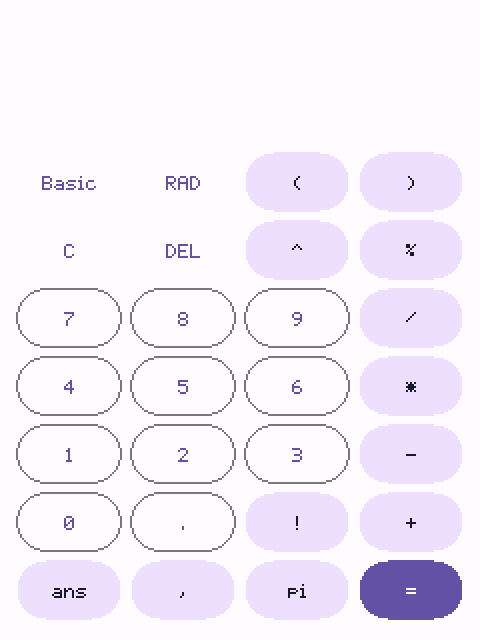
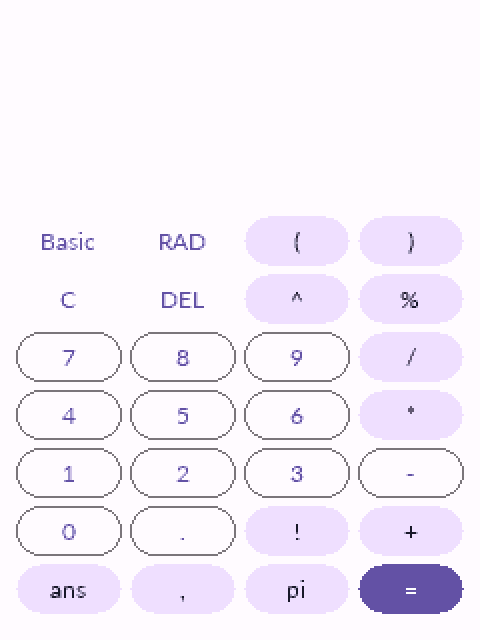
use TinyFonts

diff --git a/src/TinyCalculatorGui.h b/src/TinyCalculatorGui.h
@@ -26,6 +26,15 @@
 namespace TinyCalc {
 
 /**
+ * @brief Look of the calculator: the TinyMaterialDesign theme of all its
+ * widgets. Its typography holds the fonts (label, body, title, headline), so
+ * a TinyFonts font assigned there is used by the expression line (label) and
+ * the result line (headline).
+ */
+template <typename RGB_T = tinymd::TINYMD_DEFAULT_RGB_T>
+using CalculatorTheme = tinymd::MaterialTheme<RGB_T>;
+
+/**
  * @brief Container for the calculator's widgets. Gestures go to the widget
  * under the touch first. A swipe that no widget handles reaches this
  * container, which reports left swipes through onSwipeLeft.
@@ -106,15 +115,17 @@ class CalculatorGui {
 
   /// `bounds` is the area the calculator occupies. The layout adapts to any
   /// size; 240x320 is the default panel size of the desktop/ESP32 examples.
-  explicit CalculatorGui(tinymd::Bounds bounds)
-      : screen_(nullptr),
-        exprLabel_(tinymd::Bounds(), "", tinymd::TypographyRole::kLabel),
+  explicit CalculatorGui(tinymd::Bounds bounds,
+                         const CalculatorTheme<RGB_T>& theme = tinymd::defaultTheme<RGB_T>())
+      : theme_(theme),
+        screen_(nullptr),
+        exprLabel_(tinymd::Bounds(), "", tinymd::TypographyRole::kBody),
         resultLabel_(tinymd::Bounds(), "", tinymd::TypographyRole::kHeadline),
         fromField_(tinymd::Bounds(), "From"),
         toField_(tinymd::Bounds(), "To") {
     bounds_ = bounds;
     relayout();
-    plot_.addSeries(colorFromHex<RGB_T>(0x6750A4));
+    plot_.addSeries(theme_.colors.primary);
     panel_.onSwipeLeft = [this]() { swipeLeft(); };
     panel_.onSwipeRight = [this]() { swipeRight(); };
     fromField_.onFocus = [this]() { activeField_ = 0; };
@@ -145,6 +156,7 @@ class CalculatorGui {
     panel_.addChild(plot_);
     panel_.addChild(fromField_);
     panel_.addChild(toField_);
+    screen.setTheme(theme_);  // the calculator's theme applies to every widget
     attached_ = true;
     refresh();
   }
@@ -317,6 +329,36 @@ class CalculatorGui {
   /// The area the calculator occupies.
   tinymd::Bounds bounds() const { return bounds_; }
 
+  /// Fonts for the expression line and the result line, e.g. TinyFonts
+  /// (tinyfonts::TinyGPUFont). nullptr keeps the theme's font for the line.
+  /// Signature of a font function: it receives the theme and assigns fonts to
+  /// its typography, e.g.
+  ///
+  ///   void myFonts(CalculatorTheme<RGB565>& t) {
+  ///     t.typography.label = &smallFont;         // keys, chart axes, field labels
+  ///     t.typography.body = &smallFont;          // expression line, chart text
+  ///     t.typography.headline = &resultFont;     // result line
+  ///   }
+  ///   calculatorGui.assignFonts(myFonts);
+  typedef void (*FontFunction)(CalculatorTheme<RGB_T>& theme);
+
+  /// Lets a function defined in the sketch assign the fonts of the theme.
+  /// The new fonts are applied at once and to the attached screen.
+  void assignFonts(FontFunction fn) {
+    if (fn == nullptr) return;
+    fn(theme_);
+    applyTheme();
+  }
+
+  /// Replaces the theme (colors, shapes, fonts) of the calculator.
+  void setTheme(const CalculatorTheme<RGB_T>& theme) {
+    theme_ = theme;
+    applyTheme();
+  }
+
+  /// The theme in use.
+  const CalculatorTheme<RGB_T>& theme() const { return theme_; }
+
   /// Changes the area the calculator occupies (e.g. after a rotation). Works
   /// for any size: a wide area gets the display left and the keys right, a
   /// tall area stacks them.
@@ -431,7 +473,7 @@ class CalculatorGui {
                            w - 2 * kMargin - dw - kGap, h - 2 * kMargin);
     } else {
       // the plot needs more height than the expression and result lines
-      const int32_t dh = plotting_ ? h / 2 : (h * 3) / 10;
+      const int32_t dh = plotting_ ? (h * 11) / 20 : (h * 3) / 10;
       display = tinymd::Bounds(x + kMargin, y + kMargin, w - 2 * kMargin, dh);
       pad = tinymd::Bounds(x + kMargin, y + kMargin + dh + kGap,
                            w - 2 * kMargin, h - 2 * kMargin - dh - kGap);
@@ -439,8 +481,10 @@ class CalculatorGui {
 
     if (plotting_) {
       const int32_t fh = min32(kFieldH, display.h / 4);
+      // room for the field labels ("From", "To"), which are drawn above the fields
+      const int32_t labelH = 18;
       plot_.bounds = tinymd::Bounds(display.x, display.y, display.w,
-                                    display.h - fh - kGap);
+                                    display.h - fh - labelH - kGap);
       const int32_t fw = (display.w - kGap) / 2;
       const int32_t fy = display.y + display.h - fh;
       fromField_.bounds = tinymd::Bounds(display.x, fy, fw, fh);
@@ -701,6 +745,13 @@ class CalculatorGui {
     return zero / zero;
   }
 
+  // Pushes the theme to the attached screen and the plot color.
+  void applyTheme() {
+    plot_.series(0).color = theme_.colors.primary;
+    if (screen_ != nullptr) screen_->setTheme(theme_);
+    refresh();
+  }
+
   void refresh() {
     std::string e = showResult_ ? expr_ + " =" : expr_;
     exprLabel_.setText(e.c_str());
@@ -709,6 +760,7 @@ class CalculatorGui {
   }
 
   tinymd::Bounds bounds_;
+  CalculatorTheme<RGB_T> theme_;
   tinymd::Screen<RGB_T>* screen_;
   Calc calc_;
   std::string expr_;

diff --git a/tests/test_gui.cpp b/tests/test_gui.cpp
@@ -424,6 +424,60 @@ static void testInputRules() {
   gui.press("clear");
 }
 
+#ifdef TINYCALC_USE_TINYFONTS
+#include <TinyFontsGPU.h>
+
+// the sketch-style font function: assigns TinyFonts to the theme's typography
+static tinyfonts::TinyGPUFont<TINYMD_DEFAULT_RGB_T> g_small(tinyfonts::Lato16);
+static tinyfonts::TinyGPUFont<TINYMD_DEFAULT_RGB_T> g_big(tinyfonts::Lato32);
+static void sketchFonts(CalculatorTheme<TINYMD_DEFAULT_RGB_T>& t) {
+  t.typography.label = &g_small;
+  t.typography.headline = &g_big;
+}
+
+// TinyFonts assigned through a function: the calculator still works and draws
+static void testTinyFonts() {
+  FloatGui gui(tinymd::Bounds(0, 0, 240, 320));
+  gui.assignFonts(sketchFonts);
+  CHECK(gui.theme().typography.label == &g_small);
+  CHECK(gui.theme().typography.headline == &g_big);
+  tinymd::Screen<TINYMD_DEFAULT_RGB_T> screen(tinymd::defaultTheme<TINYMD_DEFAULT_RGB_T>());
+  gui.begin(screen);
+  CHECK(screen.theme().typography.label == &g_small);  // the screen got the theme
+  type(gui, {"2", "+", "3", "="});
+  CHECK(gui.resultText() == "5");
+  tinygpu::Surface<TINYMD_DEFAULT_RGB_T> surface(240, 320, tinygpu::FontRGB565);
+  CHECK(surface.begin());
+  screen.draw(surface);
+  gui.end();
+}
+#endif
+
+// themes: a theme is applied to the screen and the plot, and the calculator draws with it
+static void testThemes() {
+  FloatGui gui(tinymd::Bounds(0, 0, 240, 320));
+  CalculatorTheme<TINYMD_DEFAULT_RGB_T> dark = tinymd::defaultDarkTheme<TINYMD_DEFAULT_RGB_T>();
+  CalculatorTheme<TINYMD_DEFAULT_RGB_T> green = tinymd::greenTheme<TINYMD_DEFAULT_RGB_T>();
+  gui.setTheme(dark);
+  CHECK(gui.theme().colors.primary.getRed() == dark.colors.primary.getRed());
+  gui.setTheme(green);
+  CHECK(gui.theme().colors.primary.getRed() == green.colors.primary.getRed());
+  CHECK(gui.theme().colors.primary.getGreen() == green.colors.primary.getGreen());
+
+  tinymd::Screen<TINYMD_DEFAULT_RGB_T> screen(tinymd::defaultTheme<TINYMD_DEFAULT_RGB_T>());
+  gui.begin(screen);
+  CHECK(screen.theme().colors.primary.getGreen() == green.colors.primary.getGreen());
+  gui.setTheme(dark);                           // changing the theme while attached
+  CHECK(screen.theme().colors.primary.getRed() == dark.colors.primary.getRed());
+  gui.end();
+
+  // a default-constructed GUI uses the default theme
+  FloatGui plain(tinymd::Bounds(0, 0, 240, 320));
+  CHECK(plain.theme().colors.primary.getRed() ==
+        tinymd::defaultTheme<TINYMD_DEFAULT_RGB_T>().colors.primary.getRed());
+}
+
+
 static void testDoublePrecision() {
   DoubleGui gui(tinymd::Bounds(0, 0, 240, 320));
   type(gui, {"1", "/", "3"});
@@ -516,6 +570,10 @@ int main() {
   testSwipePages();
   testSwipeInPlot();
   testInputRules();
+  testThemes();
+#ifdef TINYCALC_USE_TINYFONTS
+  testTinyFonts();
+#endif
   testDoublePrecision();
   testAttachAndDraw();
 

diff --git a/docs/gui.md b/docs/gui.md
@@ -17,6 +17,41 @@ void loop()  { app.update(); }
 
 It needs TinyMaterialDesign (and therefore TinyGPU) on the include path.
 
+## Themes and fonts
+
+The calculator is drawn with a TinyMaterialDesign theme
+(`CalculatorTheme<RGB_T>`, the `MaterialTheme` of the widgets). It is the
+argument of the constructor, or of `setTheme()`:
+
+```cpp
+CalculatorGui<RGB565, float> gui(Bounds(0, 0, 240, 320), tinymd::greenTheme<RGB565>());
+gui.setTheme(tinymd::defaultDarkTheme<RGB565>());   // at any time
+```
+
+The fonts are part of the theme: its `typography` holds the font of each role.
+The expression line and the chart text use the `body` font, the result line
+the `headline` font, and the keys, chart axes and field labels the `label` font. Fonts are assigned with a function defined in the sketch:
+
+```cpp
+void calculatorFonts(CalculatorTheme<RGB565>& theme) {
+  theme.typography.label = &smallFont;      // keys, chart axes, field labels
+  theme.typography.body = &smallFont;       // expression line, chart title and footer
+  theme.typography.headline = &resultFont;  // result line
+}
+
+setup() { ...; calculatorGui.assignFonts(calculatorFonts); calculatorGui.begin(app.screen()); }
+```
+
+`begin()` applies the theme to the screen, so it also changes the keys and
+other widgets on that screen.
+
+## TinyFonts
+
+[TinyFonts](https://github.com/pschatzmann/TinyFonts) gives smooth,
+anti-aliased text. The GUI example always uses it: it assigns `tinyfonts::Lato16`
+and `Lato32` in `calculatorFonts()`. Building the GUI therefore needs TinyFonts;
+point `TINYCALC_TINYFONTS_DIR` at a checkout if it is not next to this project.
+
 ## Sizes
 
 The layout adapts to the area it is given (`CalculatorGui(Bounds(...))`,

diff --git a/README.md b/README.md
@@ -42,5 +42,5 @@ git clone https://github.com/pschatzmann/TinyCalculator.git
 
 I recommend to use git because you can easily update to the latest version just by executing the ```git pull``` command in the project folder.
 
-The optional calculator GUI also needs [TinyMaterialDesign](https://github.com/pschatzmann/TinyMaterialDesign) and [TinyGPU](https://github.com/pschatzmann/TinyGPU), which are installed the same way.
+The optional calculator GUI also needs [TinyMaterialDesign](https://github.com/pschatzmann/TinyMaterialDesign), [TinyGPU](https://github.com/pschatzmann/TinyGPU) and [TinyFonts](https://github.com/pschatzmann/TinyFonts), which are installed the same way.
 
